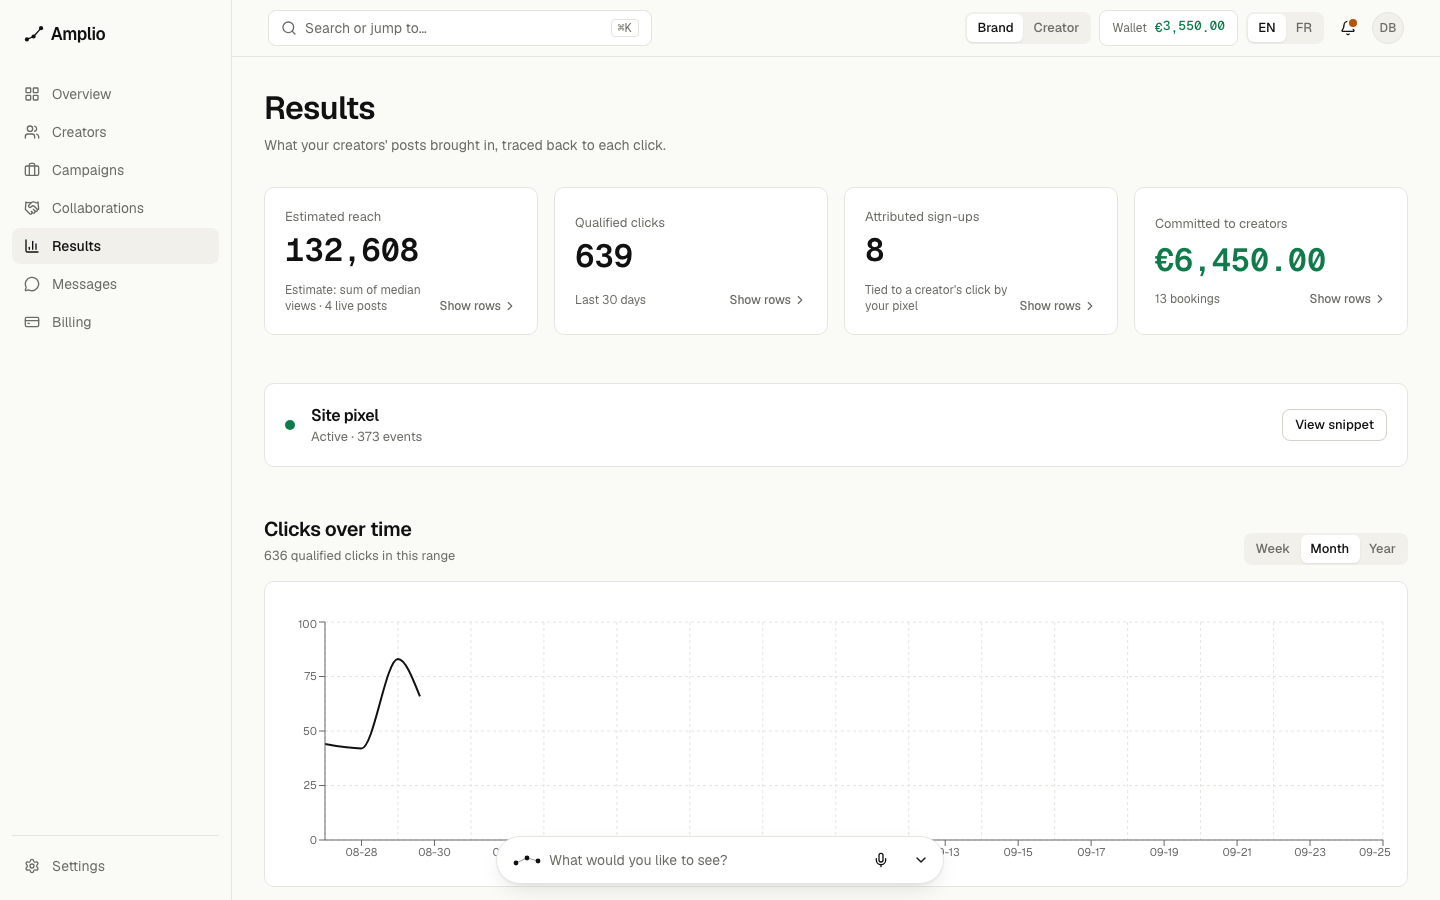
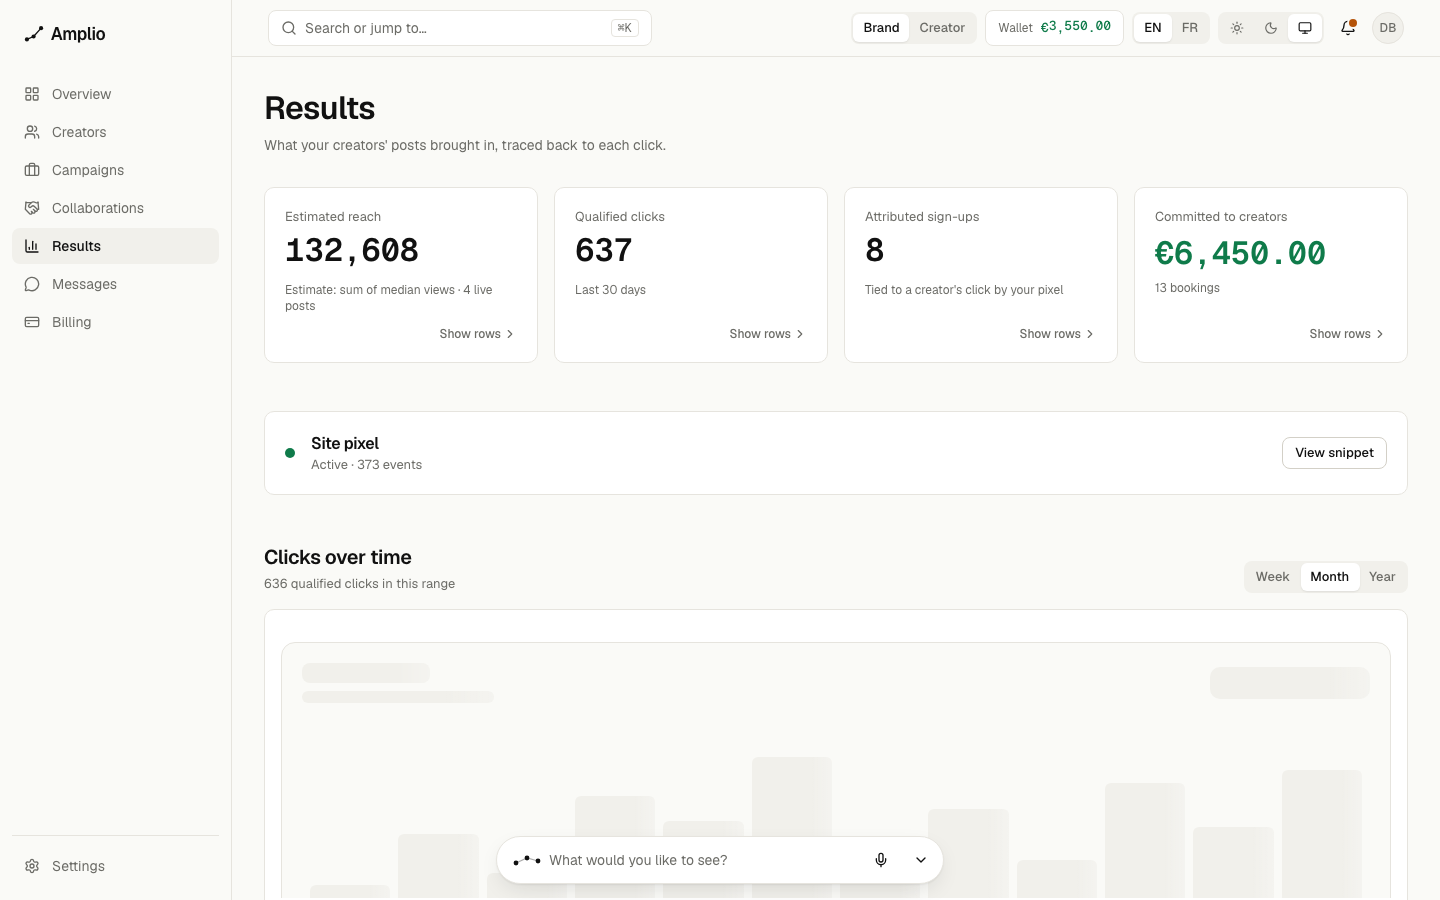
docs(design): Results and Billing screens after the StatCard fix
Retaken on amplio-mvp.vercel.app at 59b9eea, 1440 and 375: captions on their
own line, cards in a row at one height.

diff --git a/.agent-logs/2026-09-12_07-17-34_d596070f-b07c-453d-92ba-923b8424bee3.md b/.agent-logs/2026-09-12_07-17-34_d596070f-b07c-453d-92ba-923b8424bee3.md
@@ -5,9 +5,9 @@ author: m-faizananwar
 model: claude-opus-5-5
 tool: claude-code
 project: naano-rebuild
-total_exchanges: 84
+total_exchanges: 86
 first_prompt_time: 2026-09-12T07:17:34.665Z
-last_prompt_time: 2026-09-25T21:41:27.754Z
+last_prompt_time: 2026-09-25T21:51:17.620Z
 ---
 
 # Session Log - 2026-09-12
@@ -2514,5 +2514,64 @@ model: claude-opus-5-5
 <status>failed</status>
 <summary>Background command "Serve the production build locally on the local DB" failed with exit code 143</summary>
 </task-notification>
+
+
+[LOG_ENTRY type=PROMPT num=85 session=d596070f]
+timestamp: 2026-09-25T21:50:42.005Z
+model: claude-opus-5-5
+
+<task-notification>
+<task-id>bmafp7yt0</task-id>
+<tool-use-id>toolu_01K7mkWHW33nzZ54cXeTTEU6</tool-use-id>
+<output-file>/private/tmp/claude-501/-Users-nexxus-Projects-cloning-of-sites/d596070f-b07c-453d-92ba-923b8424bee3/tasks/bmafp7yt0.output</output-file>
+<status>failed</status>
+<summary>Background command "Start dev server on the local database" failed with exit code 143</summary>
+</task-notification>
+
+
+[LOG_ENTRY type=RESPONSE num=85 session=d596070f]
+timestamp: 2026-09-25T21:51:17.390Z
+model: claude-opus-5-5
+
+The public pages are static now. They used to render fresh on every request and are now served from Vercel's cache in English and French. The rest of the promppter's queue is also on main and checked on amplio-mvp.vercel.app. That checking was read-only; anything that writes data was tested on localhost only.
+
+**The biggest change: public pages served from cache (f25f7c3).** Before, every public page rendered fresh on every request: no caching, 0.6–0.8 s to first byte. Now:
+- The public and sign-in pages are built ahead of time in English and French, and URLs don't change. The language comes from the language cookie, then the browser's setting.
+- The landing, pricing and for-creators pages refresh their numbers at most once a minute.
+- Live, every one of those pages is a cache hit from the nearest edge after the first request.
+- Time to first byte from this machine is about 0.34 s, but that's the connection's floor: a plain icon file takes 0.32 s, and the server itself answers in about 0.13 s.
+- First paint in a headless browser was 0.3–0.9 s at both widths, but a few runs took 3.5–4.5 s. The server was a steady cache hit throughout, so I believe those spikes are from the test browser or this network, not the site. I didn't confirm that.
+- It exposed a real bug: every list in the French text (legal sections, FAQ) was being turned into something that broke the page, so the French terms page errored. Fixed.
+
+**Other changes:**
+- **Theme (c997934):** follows the operating system by default. There's a light/dark/system switch in the top bar, the public nav and the account menu, and no flash on first load.
+- **Stat cards (66cb7cd):** the caption sits on its own line, "Show rows" sits bottom-right, and cards in a row are the same height.
+- **Decisions doc (7ae1472):** DECISIONS.md lists the extra cuts and a new "Stopped pretending" section, collected from all three builders.
+- **Copy test (88e480e):** a new test fails if a brand or creator page shows text that isn't in the translation files. It found five such strings, now moved.
+- **From the other builders' QA:**
+  - A missing message on Results caused a console error (5d6581b).
+  - Releasing a payment now takes two clicks.
+  - Estimated reach shows "—" instead of a 0 when a creator's views aren't known (0393711).
+- **Cleanups and extras:**
+  - Old design leftovers and an unused dependency are removed.
+  - /dev/ui shows the animation and graphics kit.
+  - The Overview's to-do list shows each item's state icon.
+  - The README table of what's real and what's stubbed is current.
+  - The Overview screenshots were retaken on live.
+
+**Not done:**
+- The "—" reach state isn't verified on live. The demo data has no creator with unknown views, and I didn't change data to create one.
+- The small celebration animation when a to-do item is cleared wasn't added. Items are cleared on the collaboration page, not on the Overview, so the Overview never sees the moment.
+
+The Sanity connector still needs authorizing in your connector settings, and the gpt-bridge connector still wasn't reachable. Neither was needed for this work.
+
+
+[LOG_ENTRY type=PROMPT num=86 session=d596070f]
+timestamp: 2026-09-25T21:51:17.620Z
+model: claude-opus-5-5
+
+<cross-session-message from="local_f46baa94-92fd-43fd-b346-92ae63fcbcc6" name="naano promppter">
+static pages verified live: cache HIT on /, /for-creators, /pricing, /login, ttfb 0.33–0.6 s from here, fcp 0.75 s at 375 (was 4.8 s), FR switch still serves the french variant. well done. two items the fork's loop test sent you, and the first is a must before the freeze: (1) "Release €450" moves money on a single click with no confirm step — money movement gets the ConfirmButton step (amount + creator named in the confirm), same as the assistant's rule; (2) Results shows "Estimated reach 0" when a creator's views are unknown (every real-imported creator) — show "—" with a "not measured" hint, never 0. then the bell/FR pass and final screens.
+</cross-session-message>
 
 
